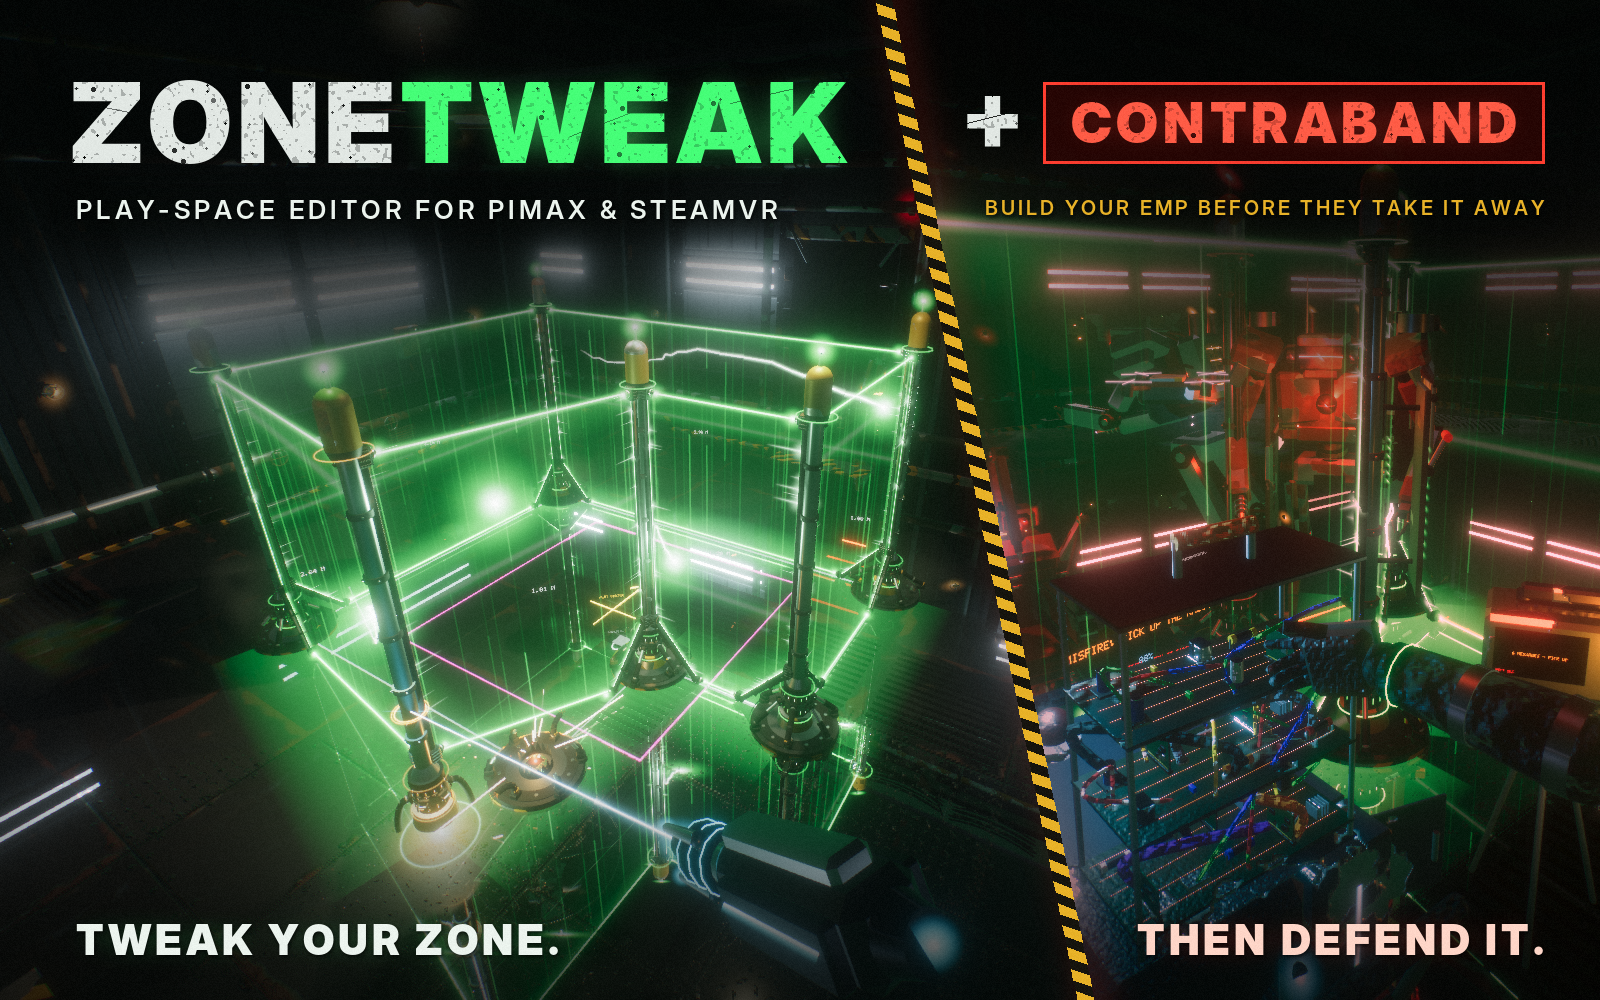
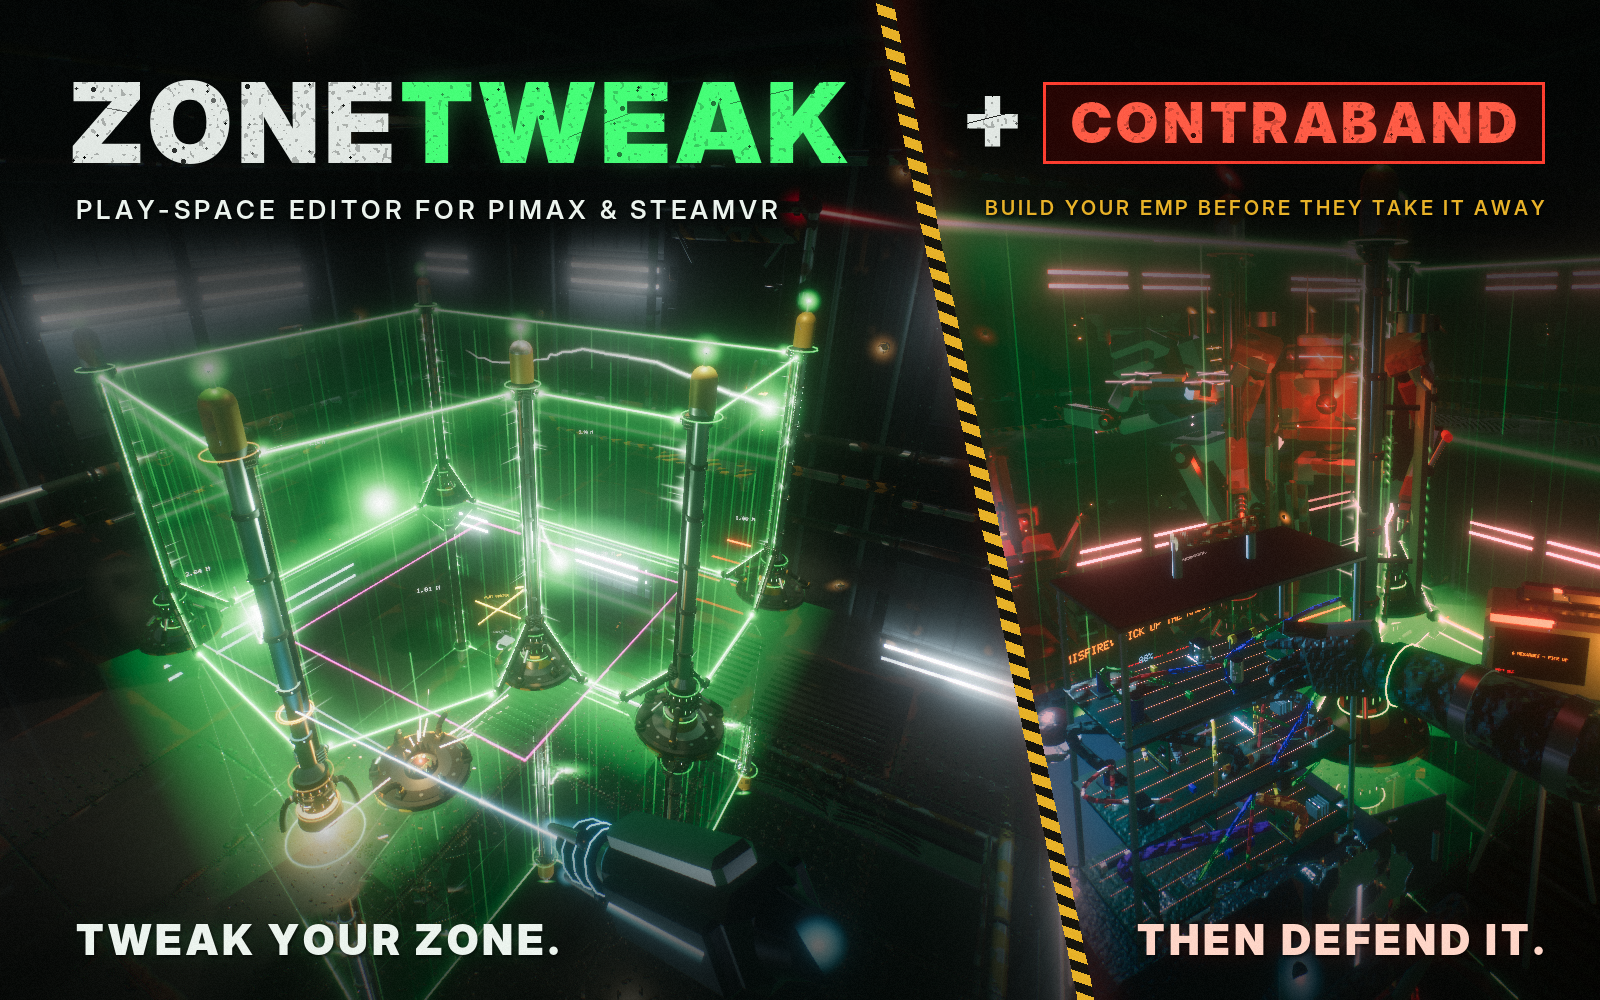
Cover: centre the boundary on its own half
Claude-Session: https://claude.ai/code/session_01T1xWomunwoyWUYeuGUgwSf

diff --git a/art/make_art.py b/art/make_art.py
@@ -71,7 +71,7 @@ def cover(W=1600, H=1000):
     a dead generator left. Split on a hazard-striped diagonal; each half carries its own name,
     ZONETWEAK + CONTRABAND reading across the top as one title."""
     zone = Image.new('RGB', (W, H), (0, 0, 0))
-    zone.paste(Image.open('cover_render.png').convert('RGB').resize((W, H), Image.LANCZOS), (-90, 0))
+    zone.paste(Image.open('cover_render.png').convert('RGB').resize((W, H), Image.LANCZOS), (-205, 0))
     gsrc = Image.open('cover_game.png').convert('RGB')
     gsrc = gsrc.resize((int(gsrc.width * H / gsrc.height), H), Image.LANCZOS)
     game = Image.new('RGB', (W, H), (0, 0, 0))
